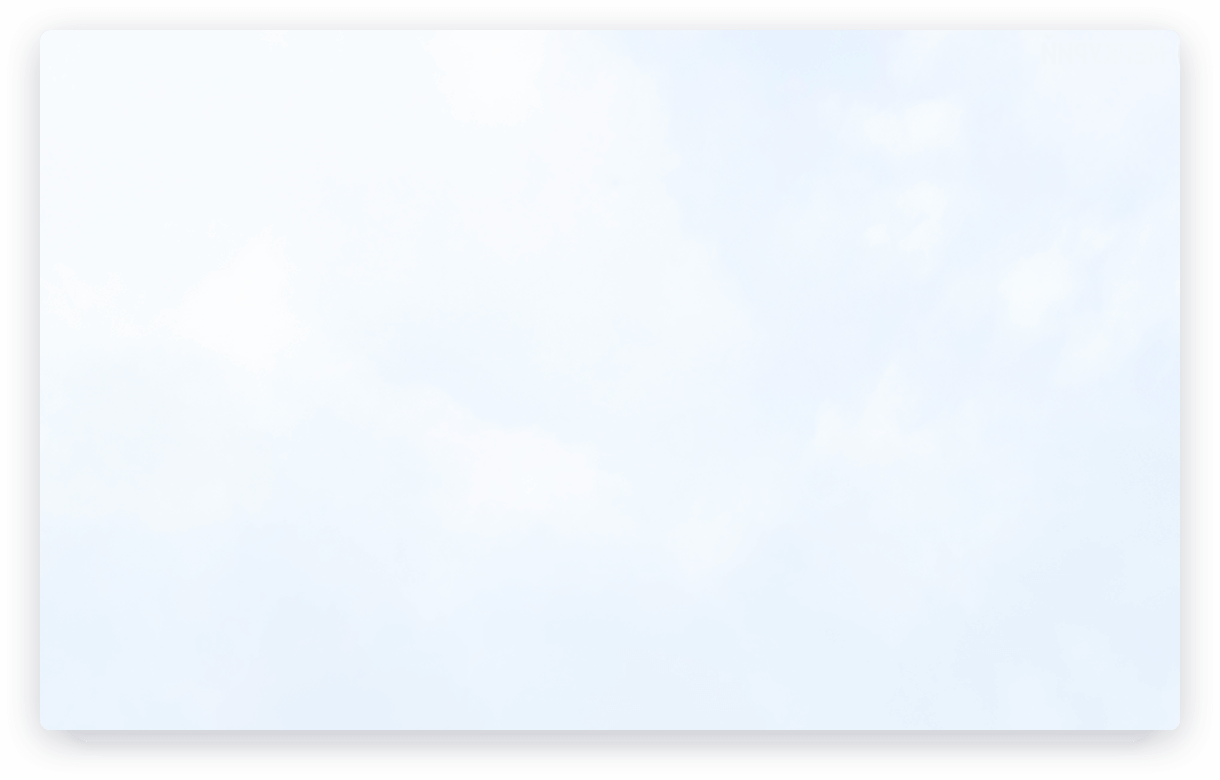
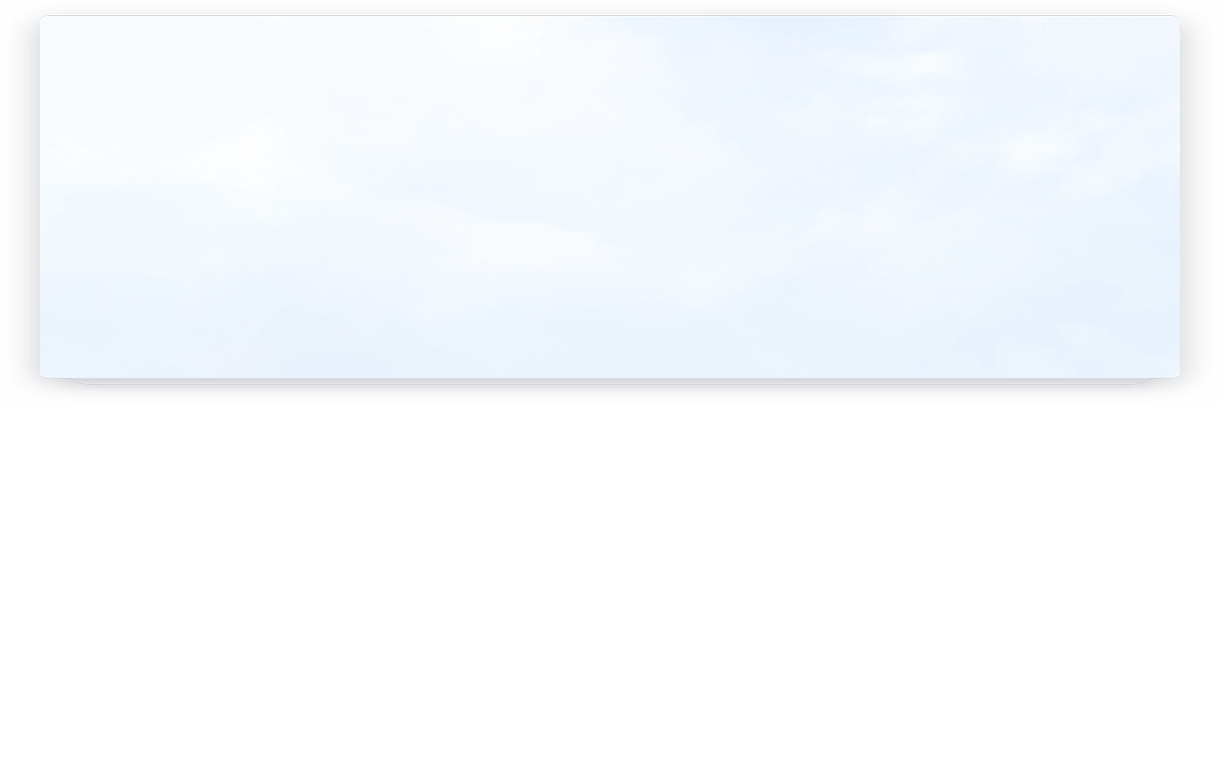
123

Changed region(s): [[0.0311, 0.9231, 0.9656, 0.9846], [0.0623, 0.4615, 0.9656, 0.4923]]

diff --git a/calculation.novemisto/thank-you.html b/calculation.novemisto/thank-you.html
@@ -2,7 +2,7 @@
 <php>
 <head>
 <meta charset="utf-8">
-<title>И это еще не все!</title>
+<title>І це ще не все!</title>
 <meta name="description" content="А поки ми формуємо комерційну пропозицію, скачайте і прочитайте PDF інструкцію">
 <meta name="viewport" content="width=device-width, initial-scale=1.0">
 <link href="favicon.ico" rel="shortcut icon" type="image/x-icon">
@@ -16,28 +16,31 @@
    <div id="Layer1">
       <div id="Layer1_Container">
          <div id="wb_Text107">
-            <span id="wb_uid0">г. Минск 2019</span></div>
+            <span id="wb_uid0"></span></div>
          <form name="form_pop_up2" method="post" action="http://calculation.royalroof.by/thank-you.php" enctype="multipart/form-data" accept-charset="UTF-8" id="step6" onsubmit="yaCounter56430505.reachGoal('room')">
             <input type="hidden" name="formid" value="step6">
             <div id="step6_Container">
+<!--
                <div id="wb_Image9">
                   <img src="images/arrow.png" id="Image9" alt=""></div>
                <input type="date" id="Editbox1" name="Дата " value="" spellcheck="false" required placeholder="&#1059;&#1076;&#1086;&#1073;&#1085;&#1072;&#1103; &#1076;&#1072;&#1090;&#1072;">
+-->
                <div id="wb_Shape11">
                   <a href="ТОП – 8 найпоширеніших помилок при будівництві даху.pdf" target="_blank"><div id="Shape11" class=""><div id="Shape11_text"><span id="wb_uid1">Скачати (PDF - 12.3 Mb)</span></div></div></a></div>
                <div id="wb_Text79">
-                  <span id="wb_uid2">Пропозицію відправимо найближчим часом!<br>Час обробки заявок: пн-пт 9. 00 - 18. 00 </span></div>
-               <div id="wb_Text83">
+                  <span id="wb_uid2">Дякуємо! Ваш файл буде надісланий найближчим часом!<br>Час обробки заявок: пн-пт  9. 00 - 18. 00 </span></div>
+<!--              <div id="wb_Text83">
                   <label for="RadioButton6"><span id="wb_uid3">И это еще не все</span></label></div>
                <div id="wb_Text85">
                   <label for="RadioButton6"><span id="wb_uid4">Приезжайте к нам в ШОУ-РУМ по адресу:</span></label></div>
-               <div id="wb_Text22">
-                  <span id="wb_uid5">«ТОП – 8 найпоширеніших помилок при будівництві даху»</span></div>
+-->
+               <div id="wb_Text22"> 
+                  <span id="wb_uid5">«ТОП – 8 найпоширеніших помилок при будівництві даху і як їх уникнути»</span></div>
                <div id="wb_Image5">
                   <img src="images/time.png" id="Image5" alt=""></div>
                <div id="wb_Text76">
-                  <span id="wb_uid6">А поки ми формуємо комерційну пропозицію, скачайте і прочитайте PDF-файл:</span></div>
-
+                  <span id="wb_uid6">А поки ми опрацьовуємо Ваш запит, скачайте і прочитайте PDF-файл:</span></div>
+<!--
                <div id="wb_PhotoGallery1">
                   <div id="PhotoGallery1">
                      <div class="thumbnails">
@@ -64,6 +67,7 @@
                         <div class="clearfix visible-col2"></div>
                      </div>
                   </div></div>
+
                <div id="wb_Image2">
                   <img src="images/map2.png" id="Image2" alt=""></div>
                <div id="wb_Text1">
@@ -101,6 +105,7 @@
                   <a href="ТОП – 8 найпоширеніших помилок при будівництві даху.pdf" target="_blank"><img src="images/moc.png" id="Image1" alt=""></a></div>
             </div>
          </form>
+
          <div id="wb_Text105">
             <span id="wb_uid15">Официальный дистрибьютор кровельных материалов в Минске и Беларуси</span></div>
          <div id="wb_Text106">
@@ -108,25 +113,14 @@
          <div id="wb_Image74">
             <img src="images/line.png" id="Image74" alt=""></div>
       </div>
-   </div>
+   </div>  
+-->
 
-<!-- Yandex.Metrika counter -->
-   <noscript><div><img src="https://mc.yandex.ru/watch/56430505" id="wb_uid17" alt=""/></div></noscript>
-<!-- /Yandex.Metrika counter -->
-<!-- Global site tag (gtag.js) - Google Ads: 738848316 -->
+
    <script src="js/jquery-1.12.4.min.js"></script>
    <script src="magnificpopup/jquery.magnific-popup.min.js"></script>
    <script src="js/wwb14.min.js"></script>
 
-
-  <script async src="https://www.googletagmanager.com/gtag/js?id=AW-936847579"></script>
-<script>
-  window.dataLayer = window.dataLayer || [];
-  function gtag(){dataLayer.push(arguments);}
-  gtag('js', new Date());
-
-  gtag('config', 'AW-936847579');
-</script>
    <script src="js/thank-you.js"></script>
 </body>
 

diff --git a/calculation.novemisto/style/thank-you.css b/calculation.novemisto/style/thank-you.css
@@ -874,7 +874,7 @@ body
 #wb_Image5
 {
    position: absolute;
-   left: 765px;
+   left: 800px;
    top: 58px;
    width: 35px;
    height: 37px;
@@ -905,7 +905,7 @@ body
 {
    position: absolute;
    left: 55px;
-   top: 112px;
+   top: 122px;
    width: 1105px;
    height: 35px;
    text-align: center;
@@ -940,7 +940,7 @@ body
 {
    position: absolute;
    left: 59px;
-   top: 138px;
+   top: 148px;
    width: 1097px;
    height: 40px;
    text-align: center;
@@ -1315,7 +1315,7 @@ body
    left: 0px;
    top: 11px;
    width: 320px;
-   height: 1101px;
+   height: 290px;
    visibility: visible;
    display: inline;
    font-size: 8px;
@@ -1337,7 +1337,7 @@ body
 {
    left: 4px;
    top: 125px;
-   width: 313px;
+   width: 310px;
    height: 34px;
    visibility: visible;
    display: inline;
@@ -1361,7 +1361,7 @@ body
 #wb_Shape11
 {
    left: 28px;
-   top: 192px;
+   top: 198px;
    width: 265px;
    height: 66px;
    visibility: visible;

diff --git a/calculation.novemisto/index.html b/calculation.novemisto/index.html
@@ -95,7 +95,7 @@
    </section>
    <div id="Layer4" onmouseout="ShowObject('pop-up', 0);return false;">
       <div id="Layer4_Container">
-         <form name="form_price" method="post" action="http://calculation.royalroof.by/index.php" enctype="multipart/form-data" accept-charset="UTF-8" id="Layer5" onsubmit="yaCounter56430505.reachGoal('price')">
+         <form name="form_price" method="post" action="thank-you.html" enctype="multipart/form-data" accept-charset="UTF-8" id="Layer5" >
             
             <!-- Hidden Required Fields -->
             <input type="hidden" name="project_name" value="calculation">

diff --git a/calculation.novemisto/style/index.css b/calculation.novemisto/style/index.css
@@ -1790,7 +1790,7 @@ body
 {
    position: absolute;
    left: 1035px;
-   top: 325px;
+   top: 335px;
    width: 74px;
    height: 74px;
    z-index: 46;
@@ -2808,7 +2808,7 @@ body
 #wb_Image12
 {
    left: 566px;
-   top: 414px;
+   top: 420px;
    width: 74px;
    height: 74px;
    visibility: visible;
@@ -3869,7 +3869,7 @@ body
 }
 #wb_Image12
 {
-   left: 123px;
+   left: 128px;
    top: 568px;
    width: 74px;
    height: 74px;
